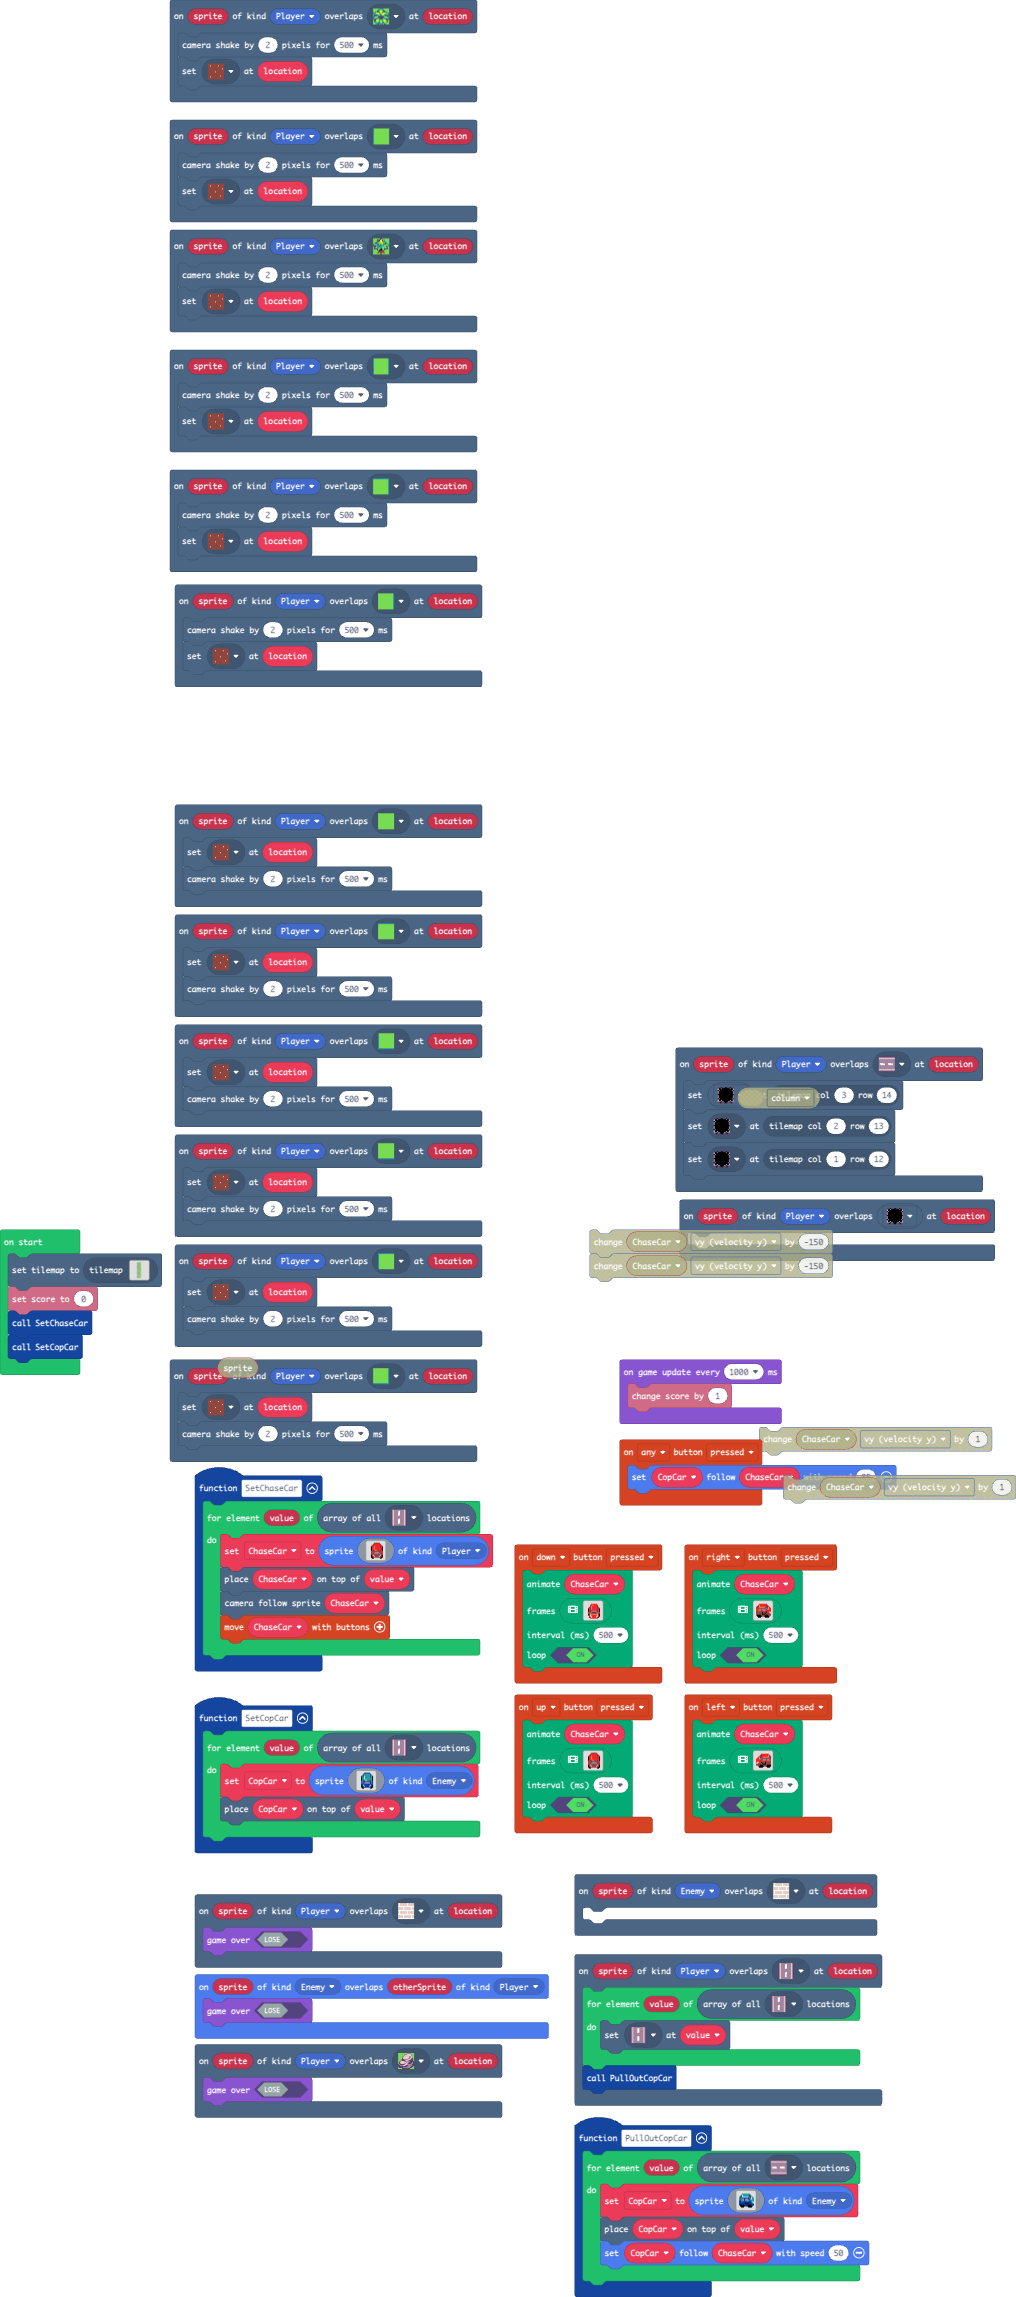
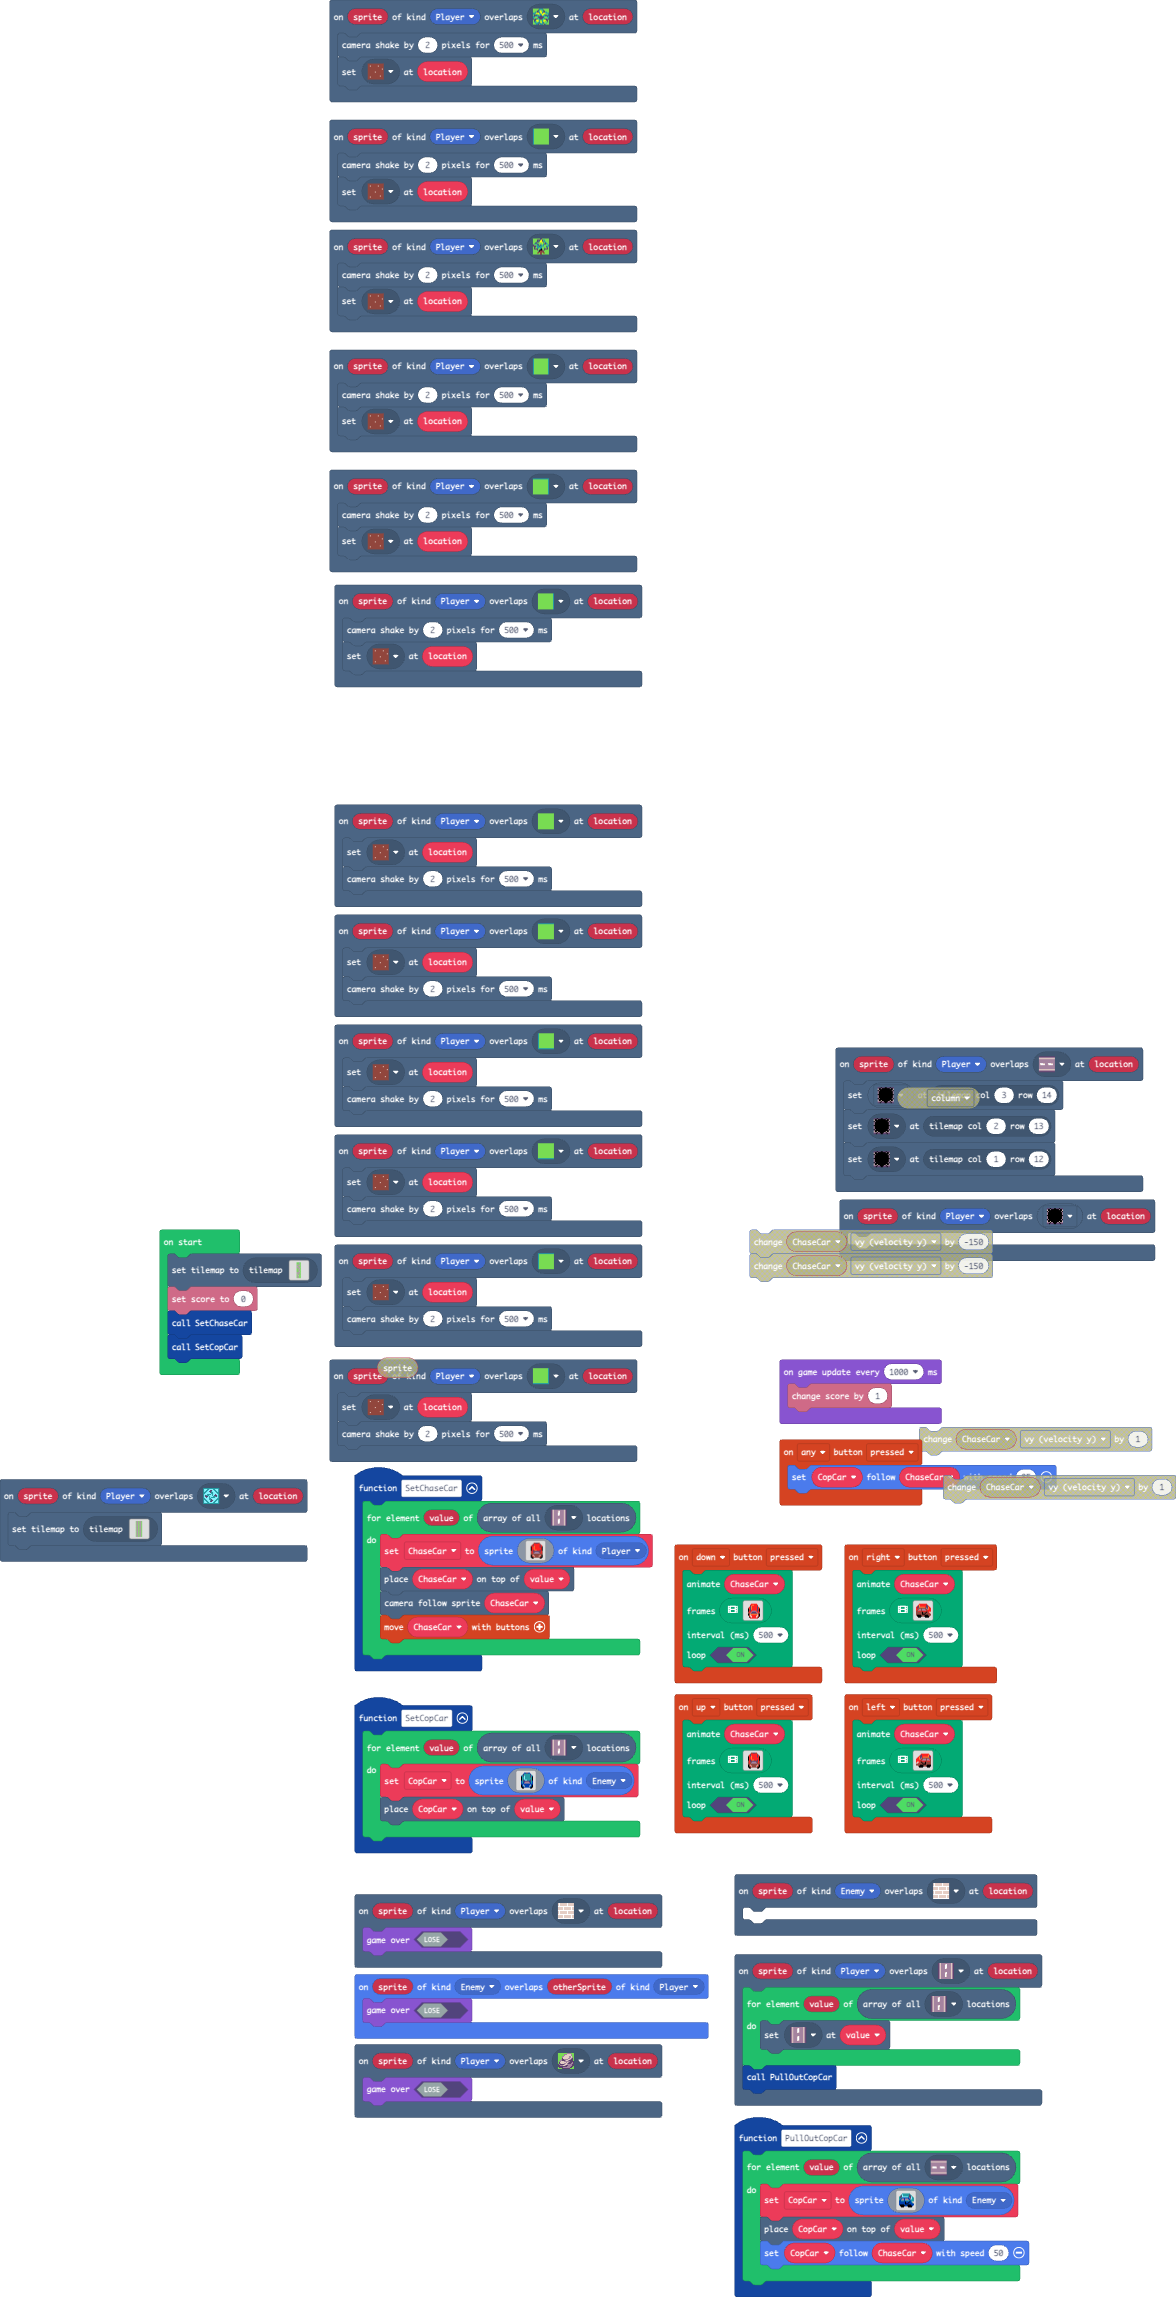
Update main.blocks, main.ts, tilemap.g.jres, tilemap.g.ts

diff --git a/tilemap.g.ts b/tilemap.g.ts
@@ -55,25 +55,6 @@ namespace myTiles {
 
     helpers._registerFactory("tilemap", function(name: string) {
         switch(helpers.stringTrim(name)) {
-            case "level1":
-            case "level1":return tiles.createTilemap(hex`1000100000000000000000000000000000000000000000000000000000000000000000000000000000000000000000000000000000000000000000000000000000000000000000000000000000000000000000000000000000000000000000000000000000000000000000000000000000000000000000000000000000000000000000000000000000000000000000000000000000000000000000000000000000000000000000000000000000000000000000000000000000000000000000000000000000000000000000000000000000000000000000000000000000000000000000000000000000000000000000000000000000000000000000000000000000000000`, img`
-. . . . . . . . . . . . . . . . 
-. . . . . . . . . . . . . . . . 
-. . . . . . . . . . . . . . . . 
-. . . . . . . . . . . . . . . . 
-. . . . . . . . . . . . . . . . 
-. . . . . . . . . . . . . . . . 
-. . . . . . . . . . . . . . . . 
-. . . . . . . . . . . . . . . . 
-. . . . . . . . . . . . . . . . 
-. . . . . . . . . . . . . . . . 
-. . . . . . . . . . . . . . . . 
-. . . . . . . . . . . . . . . . 
-. . . . . . . . . . . . . . . . 
-. . . . . . . . . . . . . . . . 
-. . . . . . . . . . . . . . . . 
-. . . . . . . . . . . . . . . . 
-`, [myTiles.transparency16], TileScale.Sixteen);
             case "level2":
[1 lines of base64/hex data omitted]
 ..........
@@ -115,6 +96,85 @@ namespace myTiles {
 ..........
 ..........
 `, [myTiles.transparency16,sprites.vehicle.roadVertical,sprites.vehicle.roadHorizontal,sprites.skillmap.islandTile1,sprites.skillmap.islandTile4,sprites.skillmap.islandTile3,sprites.skillmap.islandTile5,myTiles.tile1,sprites.builtin.brick,myTiles.tile3,myTiles.tile4,myTiles.tile6,myTiles.tile8,myTiles.tile9,myTiles.tile10,myTiles.tile12,myTiles.tile13,myTiles.tile14,myTiles.tile15,myTiles.tile16,myTiles.tile17,myTiles.tile20,myTiles.tile22,myTiles.tile24,myTiles.tile25], TileScale.Sixteen);
+            case "level3":
+            case "level3":return tiles.createTilemap(hex`1000100000000000000000000000000000000000000000000000000000000000000000000000000000000000000000000000000000000000000000000000000000000000000000000000000000000000000000000000000000000000000000000000000000000000000000000000000000000000000000000000000000000000000000000000000000000000000000000000000000000000000000000000000000000000000000000000000000000000000000000000000000000000000000000000000000000000000000000000000000000000000000000000000000000000000000000000000000000000000000000000000000000000000000000000000000000000`, img`
+. . . . . . . . . . . . . . . . 
+. . . . . . . . . . . . . . . . 
+. . . . . . . . . . . . . . . . 
+. . . . . . . . . . . . . . . . 
+. . . . . . . . . . . . . . . . 
+. . . . . . . . . . . . . . . . 
+. . . . . . . . . . . . . . . . 
+. . . . . . . . . . . . . . . . 
+. . . . . . . . . . . . . . . . 
+. . . . . . . . . . . . . . . . 
+. . . . . . . . . . . . . . . . 
+. . . . . . . . . . . . . . . . 
+. . . . . . . . . . . . . . . . 
+. . . . . . . . . . . . . . . . 
+. . . . . . . . . . . . . . . . 
+. . . . . . . . . . . . . . . . 
+`, [myTiles.transparency16], TileScale.Sixteen);
+            case "level4":
+            case "level4":return tiles.createTilemap(hex`1000100000000000000000000000000000000000000000000000000000000000000000000000000000000000000000000000000000000000000000000000000000000000000000000000000000000000000000000000000000000000000000000000000000000000000000000000000000000000000000000000000000000000000000000000000000000000000000000000000000000000000000000000000000000000000000000000000000000000000000000000000000000000000000000000000000000000000000000000000000000000000000000000000000000000000000000000000000000000000000000000000000000000000000000000000000000000`, img`
+. . . . . . . . . . . . . . . . 
+. . . . . . . . . . . . . . . . 
+. . . . . . . . . . . . . . . . 
+. . . . . . . . . . . . . . . . 
+. . . . . . . . . . . . . . . . 
+. . . . . . . . . . . . . . . . 
+. . . . . . . . . . . . . . . . 
+. . . . . . . . . . . . . . . . 
+. . . . . . . . . . . . . . . . 
+. . . . . . . . . . . . . . . . 
+. . . . . . . . . . . . . . . . 
+. . . . . . . . . . . . . . . . 
+. . . . . . . . . . . . . . . . 
+. . . . . . . . . . . . . . . . 
+. . . . . . . . . . . . . . . . 
+. . . . . . . . . . . . . . . . 
+`, [myTiles.transparency16], TileScale.Sixteen);
+            case "level1":
[1 lines of base64/hex data omitted]
+...............
+...............
+...............
+...............
+...............
+...............
+...............
+...............
+...............
+...............
+...............
+...............
+...............
+...............
+...............
+...............
+...............
+...............
+...............
+...............
+...............
+...............
+...............
+...............
+...............
+...............
+...............
+...............
+...............
+...............
+...............
+...............
+...............
+...............
+...............
+...............
+...............
+...............
+`, [myTiles.transparency16,myTiles.tile4,myTiles.tile6,myTiles.tile8,myTiles.tile9,sprites.skillmap.islandTile4,sprites.vehicle.roadVertical,sprites.skillmap.islandTile3,sprites.skillmap.islandTile5], TileScale.Sixteen);
         }
         return null;
     })

diff --git a/main.ts b/main.ts
@@ -27,6 +27,9 @@ scene.onOverlapTile(SpriteKind.Player, assets.tile`myTile1`, function (sprite, l
     tiles.setTileAt(location, assets.tile`myTile9`)
     scene.cameraShake(2, 500)
 })
+scene.onOverlapTile(SpriteKind.Player, assets.tile`myTile19`, function (sprite, location) {
+    tiles.setCurrentTilemap(tilemap`level1`)
+})
 controller.up.onEvent(ControllerButtonEvent.Pressed, function () {
     animation.runImageAnimation(
     ChaseCar,
